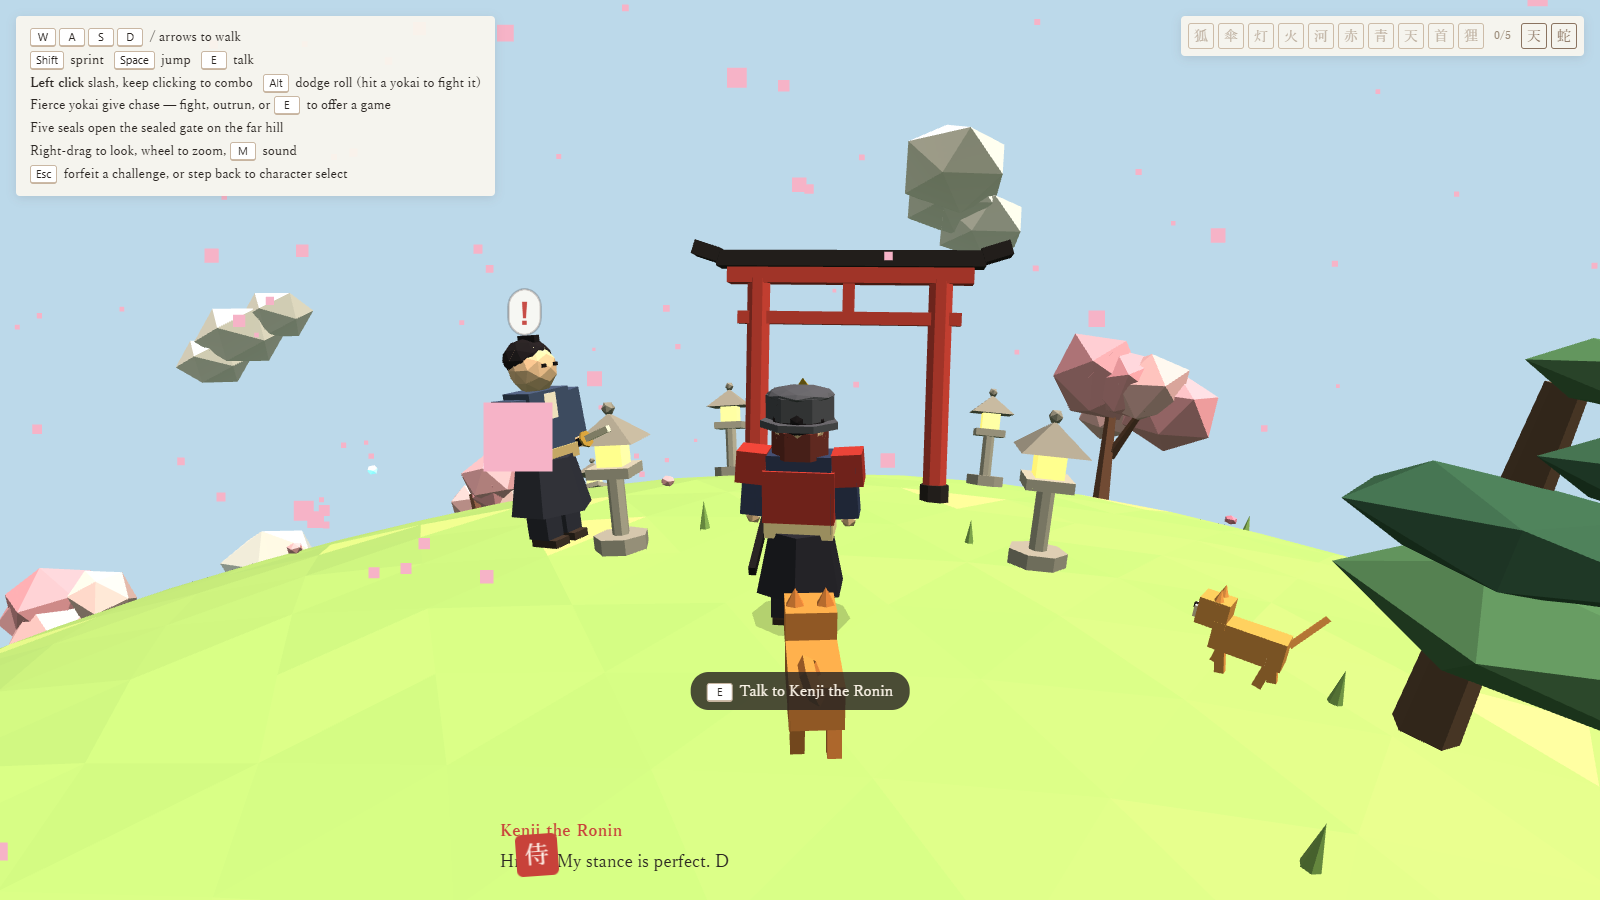
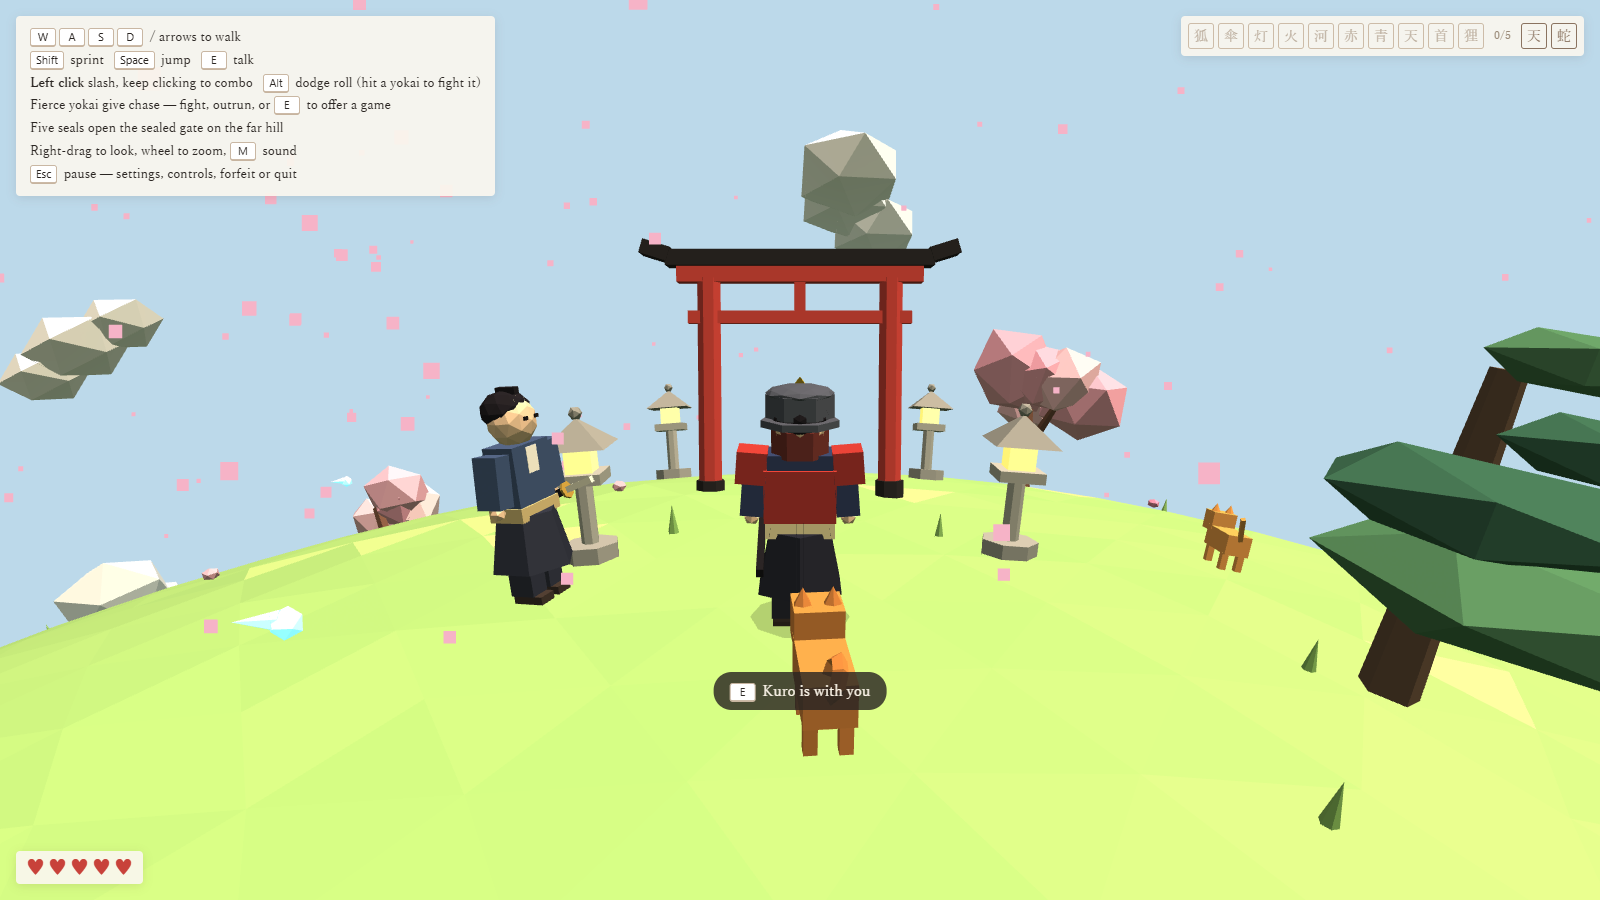
Fix three defects found by actually playing the rooms, and refresh the README
Pressing E beside a cat or dog threw: the interaction system reached for
near.def.game, and a critter has no challenge definition at all. Covered by a
regression test that fails without the fix.

A room was not a refuge. Rooms sit on real directions of the same sphere, so a
yokai already chasing you simply walked in after you and started a battle on
the tatami. Hunts are now called off at the door and suspended while indoors,
and nothing standing on the planet is in reach from inside.

The walls were invisible, then misaligned. buildBarrier is the arenas'
translucent shimmer — right for sealing a boss fight, wrong for a tea house —
and the hand-rolled replacement did not meet at the corners. Panels are now
stood up by pointing their up along the surface normal and facing them at the
middle of the room, which needs no angle maths at all. The camera also comes in
close indoors, or it ends up outside the wall looking at the back of it.

All three were invisible to the test suite and obvious within seconds of
looking at the game, which is the argument for looking at it.

README screenshots retaken against the game as it stands: title, character
select, planet, dialogue, a mini-game, a battle, a chest, the tea house
interior, and the pause screen.

Tests: 221 passing across fourteen suites.

diff --git a/src/world/arenas/interior.js b/src/world/arenas/interior.js
@@ -43,33 +43,39 @@ function makeInterior(o) {
   /** Flat inside the walls, nothing outside them. */
   const height = d => (angleBetween(d, centre) > rim ? R - 10 : FLOOR);
 
-  /** Posts and panels around the rim: a room, rather than a floating platform. */
-  function walls(g, rnd) {
-    const n = 20;
+  /**
+   * Walls around the rim.
+   *
+   * `buildBarrier` is the arenas' translucent shimmer, which is right for sealing a
+   * boss fight and wrong for a tea house, so these are solid panels. Each is stood up
+   * by pointing its `up` along the surface normal and then facing it at the middle of
+   * the room, which leaves its width running tangentially without any angle maths.
+   */
+  function walls(g) {
+    const mid = centre.clone().multiplyScalar(FLOOR + 1.5);
+    const n = 28;
+    const panelW = (2 * Math.PI * radius / n) * 1.14;      // overlap, so no gaps show
     for (let i = 0; i < n; i++) {
       const b = (i / n) * Math.PI * 2;
-      const d = spot(b, radius * 0.99);
-      const post = part(GEO.box, o.beam, [0, 0, 0], [0.22, 3.0, 0.22]);
-      const panel = part(GEO.box, o.wall, [0, 0, 0], [radius * 6.3 / n, 2.8, 0.1]);
-      for (const [mesh, lift] of [[post, 1.5], [panel, 1.45]]) {
-        const p = d.clone().multiplyScalar(height(d) + lift);
-        mesh.position.copy(p);
-        mesh.lookAt(p.clone().add(d));          // stand it up off the surface
-        mesh.rotateX(Math.PI / 2);
-        mesh.rotateY(-b);
-        g.add(mesh);
-      }
+      const d = spot(b, radius * 0.98);
+      const p = d.clone().multiplyScalar(height(d) + 1.5);
+      const panel = part(GEO.box, o.wall, [0, 0, 0], [panelW, 3.0, 0.12]);
+      panel.up.copy(d);
+      panel.position.copy(p);
+      panel.lookAt(mid);
+      g.add(panel);
     }
-    // A low ceiling beam or two, for the feeling of being indoors.
-    for (let i = 0; i < 3; i++) {
-      const d = spot(rnd() * 6.283, radius * (0.1 + rnd() * 0.5));
-      const p = d.clone().multiplyScalar(height(d) + 3.0);
-      const beam = part(GEO.box, o.beam, [0, 0, 0], [radius * 1.8, 0.18, 0.2]);
-      beam.position.copy(p);
-      beam.lookAt(p.clone().add(d));
-      beam.rotateX(Math.PI / 2);
-      beam.rotateY(rnd() * 3.14);
-      g.add(beam);
+    // Posts on the corners, to read as a building rather than a drum.
+    for (let i = 0; i < 8; i++) {
+      const b = (i / 8) * Math.PI * 2;
+      const d = spot(b, radius * 0.96);
+      const p = d.clone().multiplyScalar(height(d));
+      const post = part(GEO.box, o.beam, [0, 0, 0], [0.26, 3.2, 0.26]);
+      post.position.copy(p);
+      post.lookAt(p.clone().add(d));
+      post.rotateX(Math.PI / 2);
+      post.translateY(1.6);
+      g.add(post);
     }
   }
 
@@ -77,7 +83,7 @@ function makeInterior(o) {
     const g = new THREE.Group();
     const rnd = mulberry32(o.seed);          // this room's own stream, never the world's
     g.add(buildArenaFloor({ centre, radius, height }, o.floorA, o.floorB));
-    walls(g, rnd);
+    walls(g);
     if (o.furnish) o.furnish(g, { spot, height, rnd, rr: (a, b) => a + (b - a) * rnd() });
     return g;
   }

diff --git a/src/systems/interaction.js b/src/systems/interaction.js
@@ -8,6 +8,7 @@ import { session } from '../core/Session.js';
 import { player } from '../entities/Player.js';
 import { emote } from '../render/effects/emotes.js';
 import { HUNT } from './hunting.js';
+import { indoors } from '../world/houses.js';
 import { takeInteract } from './input.js';
 import { closeDialog, dlg, promptBox, ui } from '../ui/dialog.js';
 import { critters, npcs } from '../world/entities.js';
@@ -15,7 +16,10 @@ import { critters, npcs } from '../world/entities.js';
 function updateInteraction(dt) {
   const P = player.body.obj.position;
   let near = null, bd = Infinity;
-  for (const h of hosts) {
+  // Indoors, the planet is out of reach — nothing standing on it can be talked to,
+  // challenged, or walked into, however near its direction happens to be.
+  const inside = indoors();
+  for (const h of inside ? [] : hosts) {
     const d = h.b.dist(P);
     h.chCd = Math.max(0, (h.chCd || 0) - dt);
     if (d > CFG.challengeRange + 3) h.announced = false;
@@ -27,6 +31,8 @@ function updateInteraction(dt) {
     if (d < bd) { bd = d; near = h; }
   }
   if (session.started && !ch.active) for (const n of npcs) {
+    if (inside && !n.roomId && !n.isChest) continue;      // room fixtures only
+    if (inside && n.isChest && !String(n.id).startsWith('room-')) continue;
     if (n.def.game) continue;
     if (n.isChest) {   // chests have a shorter reach than a conversation
       const d = n.b.dist(P);
@@ -37,7 +43,7 @@ function updateInteraction(dt) {
     if (d < CFG.talkRange && d < bd) { bd = d; near = n; }
   }
   // Cats and dogs can be talked round, at arm's length rather than across a field.
-  if (session.started && !ch.active) for (const c of critters) {
+  if (session.started && !ch.active && !inside) for (const c of critters) {
     if (!c.greetable) continue;
     const d = c.b.dist(P);
     if (d < CFG.talkRange - 0.6 && d < bd) { bd = d; near = c; }
@@ -54,7 +60,8 @@ function updateInteraction(dt) {
     ui.prompt.classList.toggle('show', !!label);
   }
   if (takeInteract()) {
-    if (near) { if (near.def.game) startChallenge(near); else near.interact(); }
+    // Critters have no challenge definition at all, so ask before reaching for one.
+    if (near) { if (near.def && near.def.game) startChallenge(near); else near.interact(); }
   }
   if (dlg.npc) {
     dlg.shown += dt * CFG.textSpeed;   // typewriter

diff --git a/tests/house.test.js b/tests/house.test.js
@@ -136,6 +136,45 @@ await test('the indoor chest hands over its keepsake like any other', async () =
   assert(T.hasItem(c.itemId), 'and now carrying what was in the tea house');
 });
 
+/* ---------------------------- a room is a refuge ---------------------------- */
+
+await test('stepping inside calls off a yokai that was chasing you', async () => {
+  const { g, T } = await playing();
+  const host = T.hosts.find(h => h.def && h.def.aggro);
+  assert(host, 'there are yokai that give chase');
+  T.startHunt(host);
+  assert(T.hunter, 'one is after you');
+  T.doors.find(d => d.roomId === 'teahouse').interact();
+  eq(T.hunter, null, 'and gives up at the door');
+  assert(T.indoors(), 'you are inside');
+});
+
+await test('nothing out on the planet is in reach while you are indoors', async () => {
+  const { g, T } = await playing();
+  // Stand a yokai exactly where the room is, which the sphere allows.
+  const host = T.hosts.find(h => h.def && h.def.game);
+  const room = T.ARENAS.teahouse;
+  T.doors.find(d => d.roomId === 'teahouse').interact();
+  host.b.dir.copy(room.centre); host.b.fixFwd(); host.b.sync();
+  host.chCd = 0; host.announced = true;
+  g.run(0.5);
+  eq(T.ch.active, null, 'it cannot challenge you through the wall');
+  const p = T.promptBox.label;
+  assert(!p || !p.includes(host.def.name), `the prompt should not offer it, said "${p}"`);
+});
+
+await test('the room chest is reachable indoors, and the outdoor ones are not', async () => {
+  const { g, T } = await playing();
+  const room = T.ARENAS.teahouse;
+  const outside = T.chests[0];
+  T.doors.find(d => d.roomId === 'teahouse').interact();
+  outside.b.dir.copy(room.centre); outside.b.sync();   // even sitting in the same place
+  g.run(0.4);
+  const p = T.promptBox.label || '';
+  assert(!/Open the chest/.test(p) || T.roomFixtures.get('teahouse').chest.b.dist(T.player.body.obj.position) < 3,
+    'an outdoor chest is not offered from inside');
+});
+
 /* -------------------------------- good manners ------------------------------- */
 
 await test('a door will not open in the middle of a challenge', async () => {

diff --git a/src/systems/camera.js b/src/systems/camera.js
@@ -12,6 +12,7 @@ import { tangentA } from '../utils/scratch.js';
 import { signedAngle } from '../utils/sphere.js';
 import { SPAWN_FWD } from '../world/layout.js';
 import { heightAt } from '../world/terrain.js';
+import { arena } from '../world/Arena.js';
 
 const V3 = THREE.Vector3;
 
@@ -28,7 +29,12 @@ function updateCamera(dt, t) {
     const a = signedAngle(cam.fwd, b.fwd, up);
     if (Math.abs(a) < 2.3) cam.fwd.applyAxisAngle(up, a * damp(1.6, dt));
   }
-  _desired.copy(P).addScaledVector(up, CFG.camHeight).addScaledVector(cam.fwd, -CFG.camDist);
+  // Indoors the camera has to come in close, or it ends up outside the wall looking
+  // at the back of it. The player's own camera distance is left alone.
+  const room = arena.active && arena.active.isRoom ? arena.active : null;
+  const dist = room ? Math.min(CFG.camDist, room.radius * 0.42) : CFG.camDist;
+  const high = room ? Math.min(CFG.camHeight, 2.4) : CFG.camHeight;
+  _desired.copy(P).addScaledVector(up, high).addScaledVector(cam.fwd, -dist);
   _cdir.copy(_desired).normalize();
   const minH = heightAt(_cdir) + 1.2;                               // don't clip into hills
   if (_desired.length() < minH) _desired.copy(_cdir).multiplyScalar(minH);

diff --git a/src/world/houses.js b/src/world/houses.js
@@ -12,6 +12,7 @@ import { GEO, part } from '../render/materials.js';
 import { INDOOR_ITEMS } from '../data/itemDefs.js';
 import { SurfaceBody } from '../physics/SurfaceBody.js';
 import { Sound } from '../systems/audio.js';
+import { HUNT, endHunt, hunter } from '../systems/hunting.js';
 import { openDialog } from '../ui/dialog.js';
 import { mulberry32 } from '../utils/random.js';
 import { randTangent } from '../utils/sphere.js';
@@ -57,6 +58,9 @@ function makeDoor(roomId, dir, fwd, label) {
     },
     interact() {
       if (ch.active || arena.active) return;        // not mid-challenge, not already away
+      // A room is a refuge. Rooms sit on real directions of the same sphere, so a
+      // yokai already chasing you would otherwise walk in after you.
+      if (hunter) endHunt(hunter, HUNT.rest);
       cameFrom = door.b.dir.clone();
       arena.enter(roomId, cameFrom);
       Sound.sfx('talk');

diff --git a/tests/pet.test.js b/tests/pet.test.js
@@ -103,6 +103,19 @@ await test('a yokai on the hunt is not somebody to befriend', async () => {
   eq(c.prompt(), '', 'and it offers nothing');
 });
 
+await test('regression: pressing E beside an animal befriends it rather than throwing', async () => {
+  const { g, T } = await playing('samurai');
+  const c = stray(T);
+  // Stand the player right next to it, the way you would walking past.
+  const pb = T.player.body;
+  pb.dir.copy(T.offsetDir(c.b.dir, 0.4, 1.2 / T.R, new T.THREE.Vector3()));
+  pb.fixFwd(); pb.lift = 0; pb.vy = 0; pb.grounded = true; pb.sync();
+  g.run(0.2);
+  g.press('KeyE');
+  g.run(0.2);                       // threw here: a critter has no def to read .game from
+  eq(T.pet.animal, c, 'the animal came along');
+});
+
 /* -------------------------------- reactions --------------------------------- */
 
 await test('the companion is pleased when a seal is won', async () => {

diff --git a/src/systems/hunting.js b/src/systems/hunting.js
@@ -14,6 +14,7 @@ import { angleBetween } from '../utils/math.js';
 import { rr } from '../utils/random.js';
 import { vecB } from '../utils/scratch.js';
 import { tangentToward } from '../utils/sphere.js';
+import { indoors } from '../world/houses.js';
 
 const V3 = THREE.Vector3;
 
@@ -50,6 +51,9 @@ function endHunt(h, rest) {
   if (h.state === 'hunt') { h.state = 'idle'; h.timer = rr(1, 3); }   // hand the fox back its own moods
 }
 function updateHunts(dt) {
+  // A room is a refuge: rooms sit on real directions of the same sphere, so without
+  // this a yokai would simply walk in after you.
+  if (indoors()) { if (hunter) endHunt(hunter, HUNT.rest); return; }
   const P = player.body.obj.position;
   if (huntPeace > 0) huntPeace -= dt;
   for (const h of hosts) {

diff --git a/src/world/arenas/rooms.js b/src/world/arenas/rooms.js
@@ -34,7 +34,7 @@ const teahouse = makeInterior({
   id: 'teahouse',
   name: 'Hanako’s Tea House',
   centre: new V3(-0.31, 0.74, -0.59).normalize(),
-  radius: 7,
+  radius: 9,
   seed: 0x7EA1,
   sky: '#d9c7a6',            // lamplight on paper walls
   floorA: '#cbb27e', floorB: '#bda36f',    // tatami, woven in two tones
@@ -57,7 +57,7 @@ const pagodaRoom = makeInterior({
   id: 'pagodaRoom',
   name: 'The Pagoda',
   centre: new V3(0.78, 0.22, -0.58).normalize(),
-  radius: 8,
+  radius: 10,
   seed: 0x7A60,
   sky: '#b9a894',
   floorA: '#7a6650', floorB: '#6d5b47',    // dark boards

diff --git a/README.md b/README.md
@@ -8,6 +8,9 @@ gate on the far hill, and two great yokai are waiting behind it — each fought 
 sealed arena of its own. Fell them both and the journey is told back as an ending
 cutscene, brushed in sumi-e ink.
 
+Along the way there are twelve keepsakes left in chests, two buildings you can walk
+into, and any cat or dog on the planet will come with you if you ask it nicely.
+
 ## Screenshots
 
 ![The planet, the rōnin, and the wolf that walks with him](docs/screenshots/planet.png)
@@ -17,10 +20,14 @@ in this repository.
 
 | | |
 |---|---|
-| ![Title card and character select](docs/screenshots/title.png) | ![Talking to a villager](docs/screenshots/dialogue.png) |
-| Pick the rōnin or the kunoichi — a blade and five hearts, or a kunai and quick feet. | The villagers have something to say, typed out a letter at a time. |
-| ![An Onibi mini-game underway](docs/screenshots/challenge.png) | ![A battle with a yokai](docs/screenshots/battle.png) |
-| Ten mini-games. This one wants six lost wisps gathered inside thirty-five seconds. | Or refuse the game and settle it with the blade. Either way the seal is yours. |
+| ![The title screen](docs/screenshots/title.png) | ![Choosing a character](docs/screenshots/characters.png) |
+| The planet keeps turning behind the title, because it is the running game rather than a picture of one. | Each card shows the figure itself in 3D, and the difference between the two as numbers rather than prose. |
+| ![Talking to a villager](docs/screenshots/dialogue.png) | ![An Onibi mini-game underway](docs/screenshots/challenge.png) |
+| The villagers walk their own patch of the planet, and what they say follows how far you have got. | Ten mini-games. This one wants six lost wisps gathered inside thirty-five seconds. |
+| ![A battle with a yokai](docs/screenshots/battle.png) | ![Opening a chest](docs/screenshots/chest.png) |
+| Or refuse the game and settle it with the blade. Hearts sit bottom-left whether or not you are fighting. | Twelve keepsakes are left in chests. None of them do anything, which is rather the point. |
+| ![Inside the tea house](docs/screenshots/interior.png) | ![The pause screen](docs/screenshots/pause.png) |
+| The tea house and the pagoda can be walked into, and nothing follows you in. | Settings, controls, keepsakes and a way out, all behind `Esc`. |
 
 ## Running it
 
@@ -41,7 +48,7 @@ so the tests exercise the real modules.
 npm test
 ```
 
-140 behavioural checks across eight suites. They boot the real game in a fake browser
+221 behavioural checks across fourteen suites. They boot the real game in a fake browser
 (`tests/env.js`) using `vm.SourceTextModule`, which gives every test a fresh module
 graph — nothing in `src/` is instrumented or modified to make them work.
 
@@ -68,17 +75,17 @@ src/
   core/                 renderer, session, boot order, the frame loop, saved preferences
   utils/                maths, randomness, sphere geometry, DOM, scratch vectors
   render/               materials, and the visual effects layer
-  world/                terrain, layout, colliders, props, the sealed gate
-    arenas/             the sealed places the two bosses are fought in
+  world/                terrain, layout, colliders, props, chests, doors, the sealed gate
+    arenas/             the sealed places the bosses are fought in, and the two rooms
   physics/              movement on the surface of a sphere
   entities/             the player, the animals, the yokai, the bosses
     models/             the geometry each one is built from
-  data/                 who the characters are and what they say
+  data/                 who the characters are, what they say, and what is in the chests
   systems/              input, camera, hunting, interaction, spawning, audio
   combat/               battles, boss fights, the katana and the kunai
   challenges/           the challenge flow, the seal book, the ten mini-games
-  ui/                   character select, dialogue, the boss bar, the pause screen
-tests/                  the harness and eight suites
+  ui/                   title and character select, dialogue, hud, pause screen
+tests/                  the harness and fourteen suites
 ```
 
 ### What each area is responsible for
@@ -90,7 +97,9 @@ tests/                  the harness and eight suites
 | `core/Game.js` | The boot order. The first five calls build the world and **must stay in order** — see below. |
 | `core/GameLoop.js` | Timing, hit-stop, and the order systems update in each frame. |
 | `core/Session.js` | Whether play has begun, and whether it is paused. Two flags, owned somewhere, so no module reaches for a global. |
-| `core/save.js` | Settings and key bindings in `localStorage`. Treats storage as something that may be missing or refuse to be written, so a save failure never costs you the game. |
+| `core/save.js` | Settings, key bindings and run progress in `localStorage`. Treats storage as something that may be missing or refuse to be written, so a save failure never costs you the game. |
+| `core/keepsakes.js` | What you are carrying and which chests you have been into. Two sets and the questions worth asking of them, so the chest, the pause screen and the save file need not reach for each other. |
+| `entities/pets.js` | The animal walking with you. Befriending is the whole difference between a cat that wanders off and one that follows you around a planet. It never fights — see the note below. |
 | `utils/` | Pure helpers. `sphere.js` holds the tangent-space maths everything on the planet needs; `scratch.js` holds reused vectors. |
 | `world/` | The planet itself. `terrain.js` answers "how high is the ground here", `colliders.js` answers "can something stand here", `scenery.js` and `props.js` build what you see. |
 | `world/Arena.js` | Sealed boss arenas: hides the planet, swaps the ground under the player, and puts everything back. |
@@ -115,6 +124,12 @@ their own `mulberry32` instance. Calling `rr` or `rand` from `utils/random.js` i
 arena code — including indirectly, via a builder in `world/props.js` that uses them —
 changes what the rest of the game rolls afterwards. `tests/arena.test.js` checks this.
 
+**Anything placed in the world must earn its draw from the seeded stream.** Chests and
+room interiors build from their own `mulberry32`, as the boss arenas already did, and
+the chests are placed after everything else. An earlier attempt reserved their ground
+before the petals were scattered, which changed how many draws the petals consumed and
+quietly altered a yokai's footwork two test suites away.
+
 **Module-level code runs on import.** Anything that needs the world to exist belongs
 in an init function called from `Game.js`, not at module scope — at module scope it
 runs mid-import, before its dependencies are ready.
@@ -126,13 +141,13 @@ runs mid-import, before its dependencies are ready.
 | `W A S D` / arrows | walk |
 | `Shift` | sprint |
 | `Space` | jump |
-| `E` | talk, or accept a challenge |
 | Left click | attack — a sword combo, or a thrown kunai |
 | `Q` | shadow dash (the kunoichi only) |
 | `Alt` | dodge roll (the rōnin only) |
 | Right-drag / wheel | look / zoom |
 | `M` | mute |
-| `Esc` | pause — settings, controls, forfeit or quit |
+| `E` | talk, accept a challenge, open a chest, step into a building, befriend an animal |
+| `Esc` | pause — settings, controls, keepsakes, forfeit or quit |
 
 Every binding above can be changed from the pause screen, and is remembered between
 visits.

diff --git a/TODO.md b/TODO.md
@@ -298,7 +298,7 @@ My suggestions, not from your list. Pick up or discard freely.
 
 ## Working notes
 
-- Tests: `npm test` — 217 checks across fifteen suites. Run before and after each feature.
+- Tests: `npm test` — 221 checks across fourteen suites. Run before and after each feature.
 - `node --experimental-vm-modules tests/rebaseline.js` shows what moved in the world;
   only `--write` rewrites the baseline.
 - `tests/world.test.js` failing after a world change is expected; regenerate
